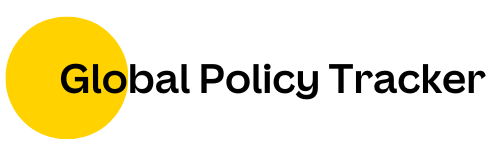
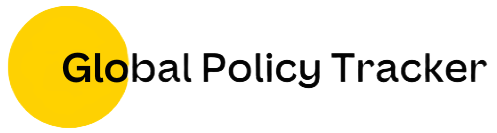
navbar style

diff --git a/client/src/components/Navbar.jsx b/client/src/components/Navbar.jsx
@@ -1,36 +1,36 @@
 import React from 'react';
 import { Link, useLocation } from 'react-router-dom';
-
+import logo from '../assets/img/global.png';
 const Navbar = () => {
   const currentPage = useLocation().pathname;
   return (
-    <div class="ui fixed inverted menu" >
+    <div class="ui orange fixed inverted menu" >
       <div class="ui container">
         <a class="header item">
           <Link
             to="/"
-            className={currentPage === '/Home' ? 'nav-link active' : 'nav-link'}
-            >Global Policy Tracker
+            className={currentPage === '/Home' ? 'nav-link active' : 'nav-link'} 
+            ><img src={logo} alt="logo" class='logo' />
             </Link>
         </a>
 
         <div class="right menu">
-          <a>
+          <a class="item" id='donateLink'>
             <Link
             to="/donate"
-            className={currentPage === '/Donate' ? 'nav-link active' : 'nav-link'} class="item"
+            className={currentPage === '/Donate' ? 'nav-link active' : 'nav-link'} class="item" id='itemDonate'
             >
             Donate
             </Link>
           </a>
           
           <div>
-            <a >
+            <a class="item" id='loginLink'>
             <Link
             to="/login"
-            className={currentPage === '/LoginForm' ? 'nav-link active' : 'nav-link'} class="item"
+            className={currentPage === '/LoginForm' ? 'nav-link active' : 'nav-link'} class="item" id='itemLogin'
             >
-            Login
+            Log in
             </Link>
             </a>
           </div>

diff --git a/client/src/App.css b/client/src/App.css
@@ -1,6 +1,7 @@
 body {
   font-family: 'Rubik', sans-serif;
-  background-color: rgb(250, 241, 224);
+  background-color: rgb(255, 254, 253);
+  color: black;
 }
 
 
@@ -22,8 +23,35 @@ h1{
   font-size: 60px;
 }
 #mainContainer{
-  margin:80px
+  margin:120px
 }
 #containerLogin{
   max-width: 450px;
+}
+.logo {
+  height: 3.5em;
+  width: 14em;
+  padding: 0px;
+  will-change: filter;
+  transition: filter 300ms;
+  border-radius: 5px;
+  margin: 0px;
+}
+
+#itemDonate{
+  border-radius: 20px;
+  background-color: rgb(255, 196, 0);
+  color: black;
+  font-weight: bolder;
+  font-size: 15px;
+  
+}
+#itemDonate:hover{
+  background-color: rgb(255, 223, 117);
+}
+#itemLogin{
+  border-radius: 20px;
+  color: black;
+  font-weight: bolder;
+  font-size: 15px;
 }
